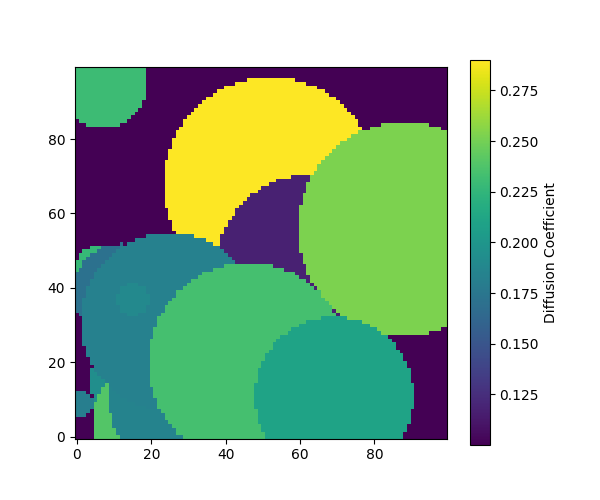
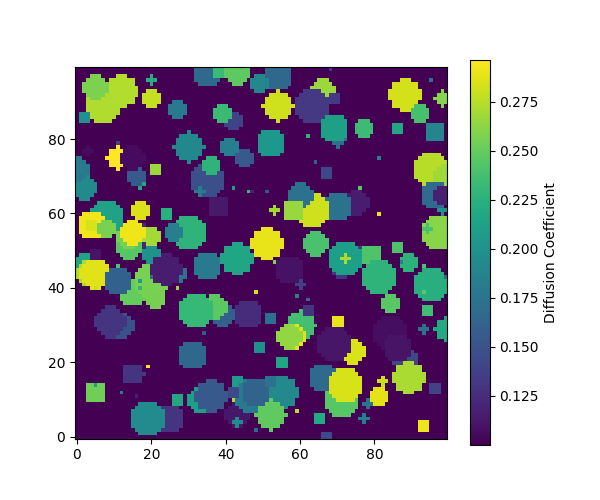
save

diff --git a/calibrate_diffusion.py b/calibrate_diffusion.py
@@ -96,7 +96,7 @@ if __name__ == "__main__":
     print(f"Using device: {device}")
     
     current_time = datetime.now().strftime("%m%d_%H%M%S")
-    simulation_file_name = "0514_202854_simulation_n10_nx100_ny100_dt5e-05_dmin0.1_dmax0.3_nblobs20_radius30.pt"
+    simulation_file_name = "0515_085547_simulation_n10_nx100_ny100_dt5e-05_dmin0.1_dmax0.3_nblobs200_radius5.pt"
 
     data = torch.load(f'./datasets/simulation/{simulation_file_name}')
     T_obs_full = data['T'].to(device) # Keep original name for clarity before slicing

diff --git a/dataset.py b/dataset.py
@@ -497,8 +497,8 @@ if __name__ == "__main__":
     dt = 5e-5
     timestamp = datetime.datetime.now().strftime("%m%d_%H%M%S")
     noise_amplitude = 0.0
-    n_blobs = 20
-    radius = 30
+    n_blobs = 200
+    radius = 5
 
     save_path_simulation = os.path.join(script_dir, "datasets", "simulation", 
                                         f"{timestamp}_simulation_n{num_simulations}_nx{nx}_ny{ny}"
